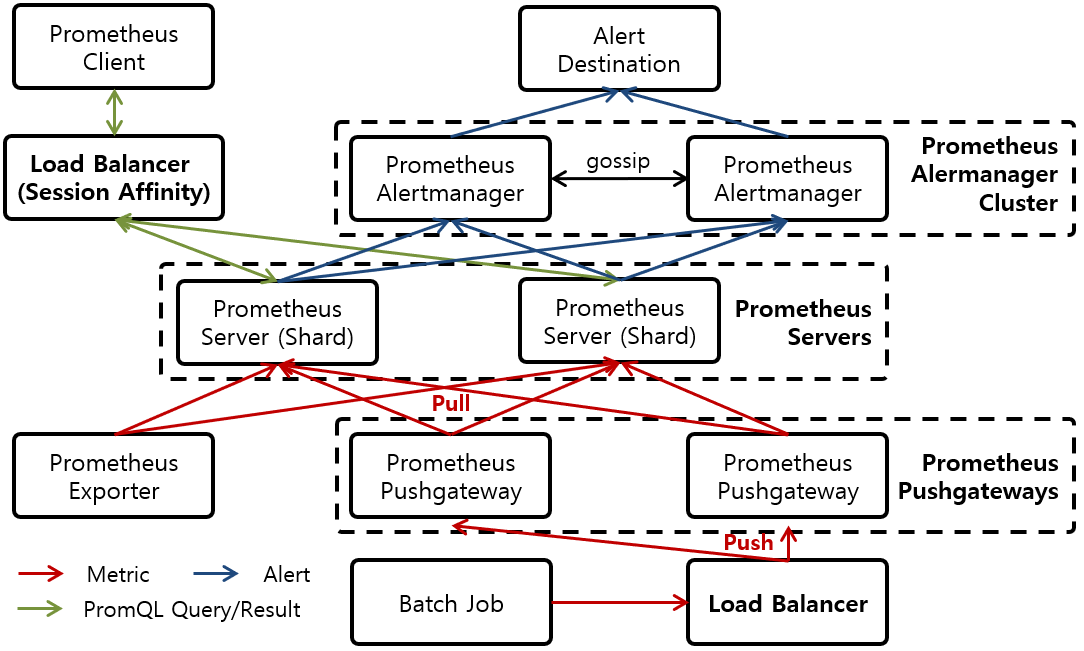
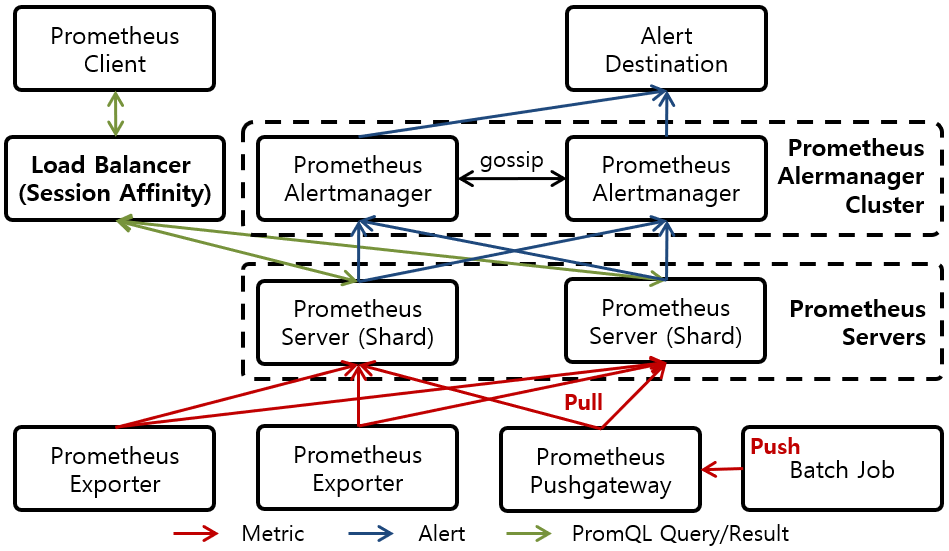
Update

Changed region(s): [[0.0, 0.0, 1.0, 1.0], [0.9779, 0.4936, 1.0, 0.5554]]

diff --git a/_docs/theory_analysis/Prometheus_High_Availability.md b/_docs/theory_analysis/Prometheus_High_Availability.md
@@ -13,7 +13,7 @@ Prometheus의 High Availability 구성 방법을 분석한다.
 
 ![[그림 1] Prometheus HA 구성]({{site.baseurl}}/images/theory_analysis/Prometheus_High_Availability/Prometheus_HA.PNG){: width="700px"}
 
-[그림 1]은 Prometheus Pushgateway와 Prometheus Server의 HA (High Availability) 구성 방법을 나타내고 있다. Promethues Pushgateway는 Load Balancer를 통해서 Batch Job에게 노출된다. 따라서 Promethues Pushgateway의 일부가 죽더라도 하나 이상의 Promethues Pushgateway가 살아있다면, Batch Job은 Load Balancer를 통해서 살아있는 Promethues Pushgateway로 Metric을 전송할 수 있다. 하지만 Promethues Server가 Prometheus Pushgateway에 저장된 Metric을 가져가기 전에 Prometheus Pushgateway가 죽는다면 Metric 유실이 발생한다.
+[그림 1]은 Prometheus Server, Alertmanager의 HA (High Availability) 구성 방법을 나타내고 있다. 
 
 ### 2. 참조
 
@@ -22,3 +22,4 @@ Prometheus의 High Availability 구성 방법을 분석한다.
 * [https://prometheus.io/docs/introduction/faq/#can-prometheus-be-made-highly-available](https://prometheus.io/docs/introduction/faq/#can-prometheus-be-made-highly-available)
 * [https://promcon.io/2017-munich/slides/alertmanager-and-high-availability.pdf](https://promcon.io/2017-munich/slides/alertmanager-and-high-availability.pdf)
 * [https://github.com/prometheus/pushgateway/issues/241](https://github.com/prometheus/pushgateway/issues/241)
+* [https://github.com/prometheus/pushgateway/issues/319](https://github.com/prometheus/pushgateway/issues/319)
